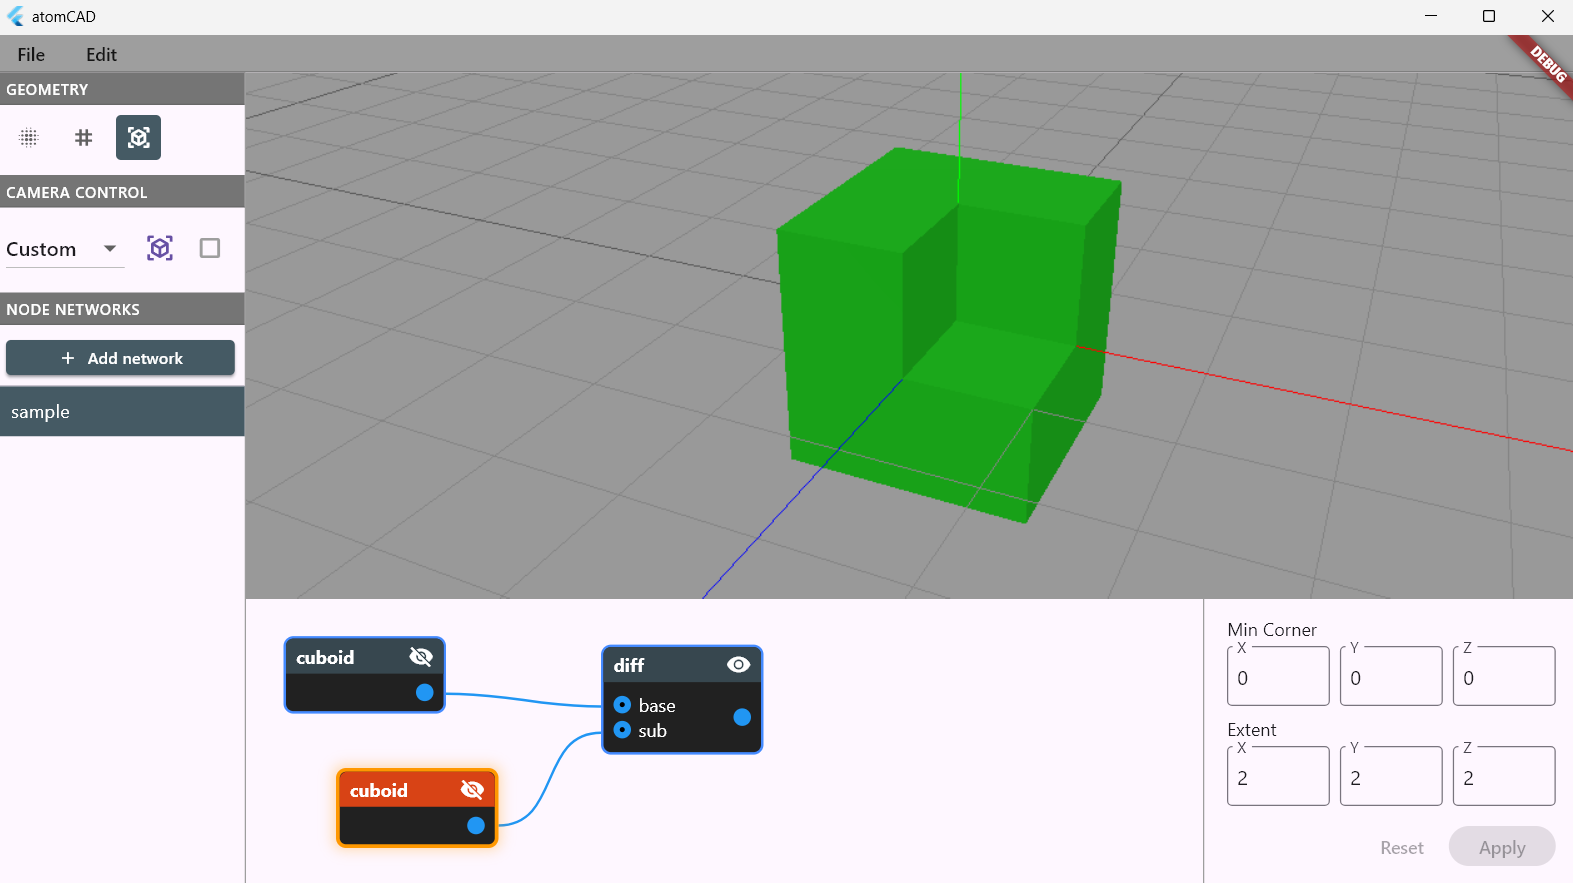
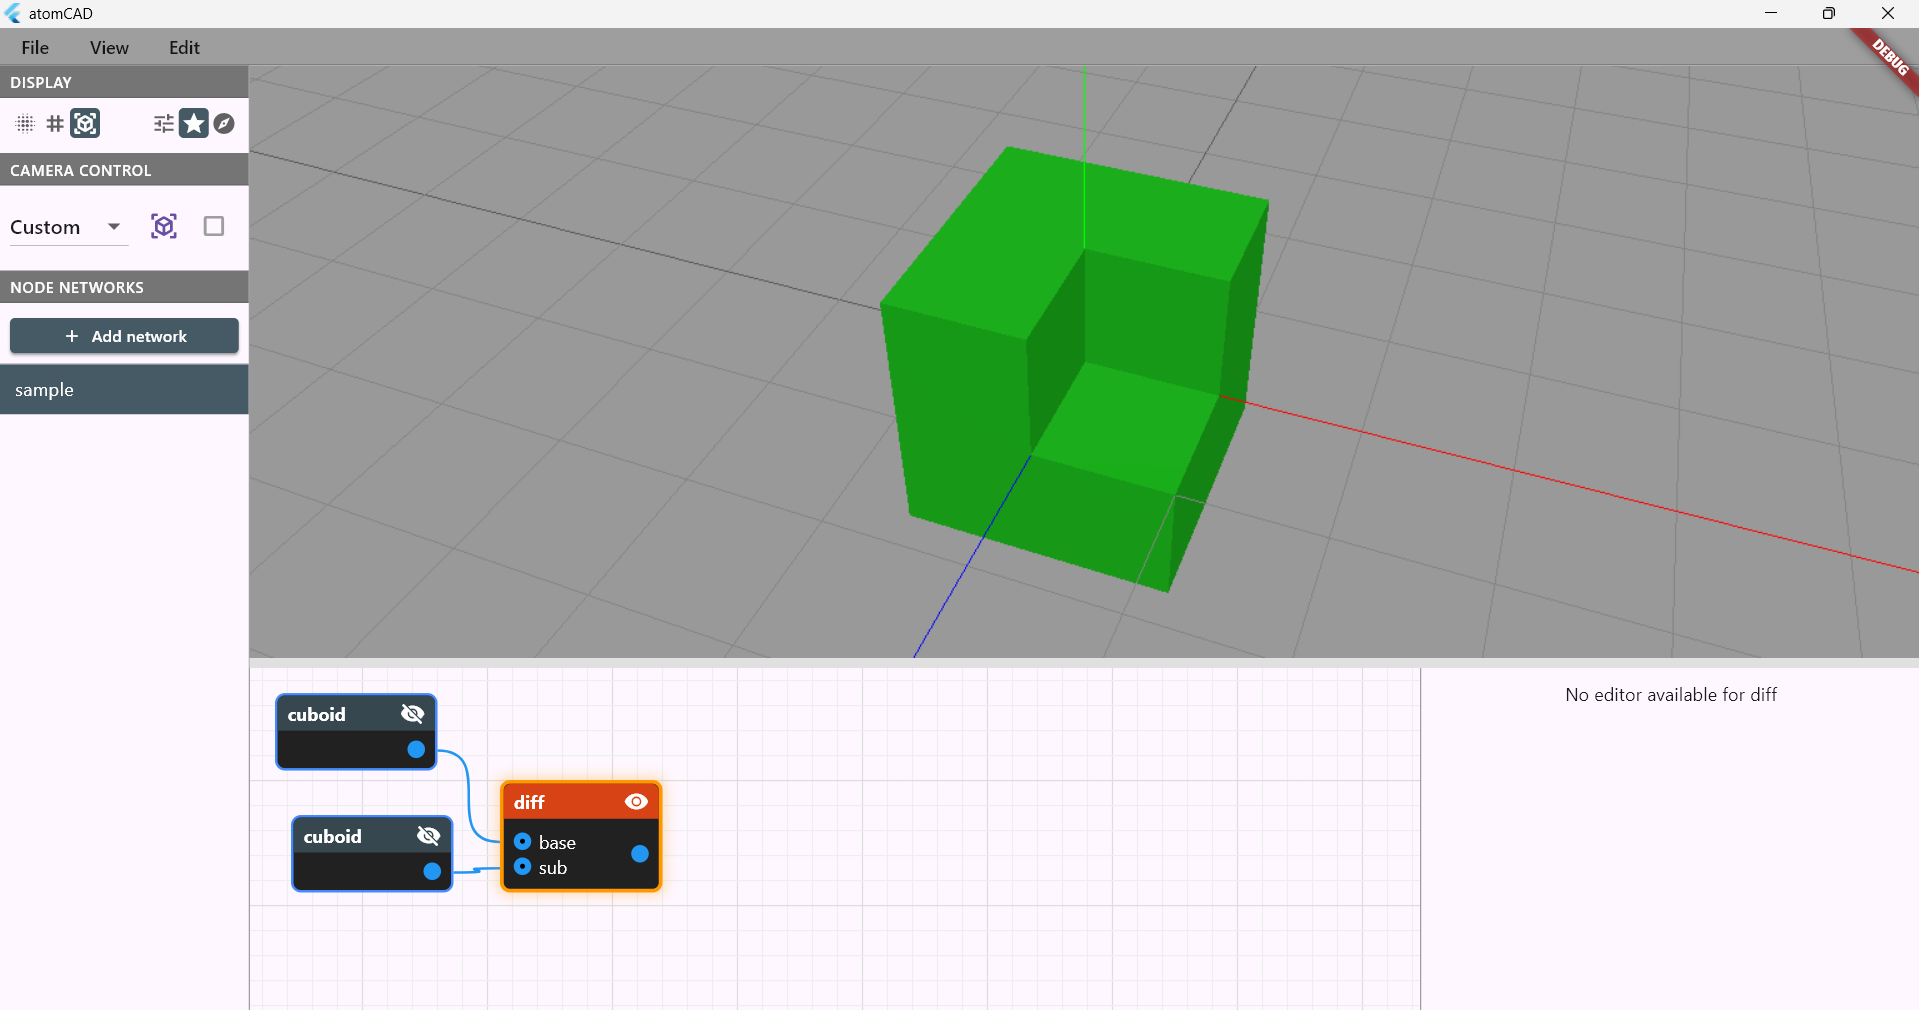
progressing with structure designer user guide, display camera target

diff --git a/lib/src/rust/frb_generated.dart b/lib/src/rust/frb_generated.dart
@@ -4241,14 +4241,15 @@ class RustLibApiImpl extends RustLibApiImplPlatform implements RustLibApi {
       dco_decode_geometry_visualization_preferences(dynamic raw) {
     // Codec=Dco (DartCObject based), see doc to use other codecs
     final arr = raw as List<dynamic>;
-    if (arr.length != 5)
-      throw Exception('unexpected arr length: expect 5 but see ${arr.length}');
+    if (arr.length != 6)
+      throw Exception('unexpected arr length: expect 6 but see ${arr.length}');
     return GeometryVisualizationPreferences(
       geometryVisualization: dco_decode_geometry_visualization(arr[0]),
       wireframeGeometry: dco_decode_bool(arr[1]),
       samplesPerUnitCell: dco_decode_i_32(arr[2]),
       sharpnessAngleThresholdDegree: dco_decode_f_64(arr[3]),
       meshSmoothing: dco_decode_mesh_smoothing(arr[4]),
+      displayCameraTarget: dco_decode_bool(arr[5]),
     );
   }
 
@@ -5265,12 +5266,14 @@ class RustLibApiImpl extends RustLibApiImplPlatform implements RustLibApi {
     var var_samplesPerUnitCell = sse_decode_i_32(deserializer);
     var var_sharpnessAngleThresholdDegree = sse_decode_f_64(deserializer);
     var var_meshSmoothing = sse_decode_mesh_smoothing(deserializer);
+    var var_displayCameraTarget = sse_decode_bool(deserializer);
     return GeometryVisualizationPreferences(
         geometryVisualization: var_geometryVisualization,
         wireframeGeometry: var_wireframeGeometry,
         samplesPerUnitCell: var_samplesPerUnitCell,
         sharpnessAngleThresholdDegree: var_sharpnessAngleThresholdDegree,
-        meshSmoothing: var_meshSmoothing);
+        meshSmoothing: var_meshSmoothing,
+        displayCameraTarget: var_displayCameraTarget);
   }
 
   @protected
@@ -6418,6 +6421,7 @@ class RustLibApiImpl extends RustLibApiImplPlatform implements RustLibApi {
     sse_encode_i_32(self.samplesPerUnitCell, serializer);
     sse_encode_f_64(self.sharpnessAngleThresholdDegree, serializer);
     sse_encode_mesh_smoothing(self.meshSmoothing, serializer);
+    sse_encode_bool(self.displayCameraTarget, serializer);
   }
 
   @protected

diff --git a/lib/src/rust/api/structure_designer/structure_designer_preferences.dart b/lib/src/rust/api/structure_designer/structure_designer_preferences.dart
@@ -21,6 +21,7 @@ class GeometryVisualizationPreferences {
   int samplesPerUnitCell;
   double sharpnessAngleThresholdDegree;
   MeshSmoothing meshSmoothing;
+  bool displayCameraTarget;
 
   GeometryVisualizationPreferences({
     required this.geometryVisualization,
@@ -28,6 +29,7 @@ class GeometryVisualizationPreferences {
     required this.samplesPerUnitCell,
     required this.sharpnessAngleThresholdDegree,
     required this.meshSmoothing,
+    required this.displayCameraTarget,
   });
 
   @override
@@ -36,7 +38,8 @@ class GeometryVisualizationPreferences {
       wireframeGeometry.hashCode ^
       samplesPerUnitCell.hashCode ^
       sharpnessAngleThresholdDegree.hashCode ^
-      meshSmoothing.hashCode;
+      meshSmoothing.hashCode ^
+      displayCameraTarget.hashCode;
 
   @override
   bool operator ==(Object other) =>
@@ -48,7 +51,8 @@ class GeometryVisualizationPreferences {
           samplesPerUnitCell == other.samplesPerUnitCell &&
           sharpnessAngleThresholdDegree ==
               other.sharpnessAngleThresholdDegree &&
-          meshSmoothing == other.meshSmoothing;
+          meshSmoothing == other.meshSmoothing &&
+          displayCameraTarget == other.displayCameraTarget;
 }
 
 /// Enum to control mesh smoothing behavior during tessellation

diff --git a/rust/src/frb_generated.rs b/rust/src/frb_generated.rs
@@ -4299,7 +4299,8 @@ let mut var_wireframeGeometry = <bool>::sse_decode(deserializer);
 let mut var_samplesPerUnitCell = <i32>::sse_decode(deserializer);
 let mut var_sharpnessAngleThresholdDegree = <f64>::sse_decode(deserializer);
 let mut var_meshSmoothing = <crate::api::structure_designer::structure_designer_preferences::MeshSmoothing>::sse_decode(deserializer);
-return crate::api::structure_designer::structure_designer_preferences::GeometryVisualizationPreferences{geometry_visualization: var_geometryVisualization, wireframe_geometry: var_wireframeGeometry, samples_per_unit_cell: var_samplesPerUnitCell, sharpness_angle_threshold_degree: var_sharpnessAngleThresholdDegree, mesh_smoothing: var_meshSmoothing};}
+let mut var_displayCameraTarget = <bool>::sse_decode(deserializer);
+return crate::api::structure_designer::structure_designer_preferences::GeometryVisualizationPreferences{geometry_visualization: var_geometryVisualization, wireframe_geometry: var_wireframeGeometry, samples_per_unit_cell: var_samplesPerUnitCell, sharpness_angle_threshold_degree: var_sharpnessAngleThresholdDegree, mesh_smoothing: var_meshSmoothing, display_camera_target: var_displayCameraTarget};}
                 }
 
 impl SseDecode for i32 {
@@ -6009,7 +6010,8 @@ impl flutter_rust_bridge::IntoDart for crate::api::structure_designer::structure
 self.wireframe_geometry.into_into_dart().into_dart(),
 self.samples_per_unit_cell.into_into_dart().into_dart(),
 self.sharpness_angle_threshold_degree.into_into_dart().into_dart(),
-self.mesh_smoothing.into_into_dart().into_dart()
+self.mesh_smoothing.into_into_dart().into_dart(),
+self.display_camera_target.into_into_dart().into_dart()
                 ].into_dart()
                 }
             }
@@ -6665,7 +6667,8 @@ impl SseEncode for crate::api::structure_designer::structure_designer_preference
 <bool>::sse_encode(self.wireframe_geometry, serializer);
 <i32>::sse_encode(self.samples_per_unit_cell, serializer);
 <f64>::sse_encode(self.sharpness_angle_threshold_degree, serializer);
-<crate::api::structure_designer::structure_designer_preferences::MeshSmoothing>::sse_encode(self.mesh_smoothing, serializer);}
+<crate::api::structure_designer::structure_designer_preferences::MeshSmoothing>::sse_encode(self.mesh_smoothing, serializer);
+<bool>::sse_encode(self.display_camera_target, serializer);}
                 }
 
 impl SseEncode for i32 {

diff --git a/rust/src/renderer/renderer.rs b/rust/src/renderer/renderer.rs
@@ -9,6 +9,7 @@ use crate::renderer::line_mesh::LineVertex;
 use crate::renderer::line_mesh::LineMesh;
 use super::tessellator::atomic_tessellator;
 use super::tessellator::surface_point_tessellator;
+use super::tessellator::tessellator::tessellate_sphere;
 use super::camera::Camera;
 use glam::f32::Vec3;
 use glam::f32::Mat4;
@@ -465,6 +466,23 @@ impl Renderer {
         let mut lightweight_mesh = Mesh::new();
         if let Some(tessellatable) = scene.tessellatable() {
             tessellatable.tessellate(&mut lightweight_mesh);
+        }
+        
+        // Tessellate camera target sphere if enabled
+        if geometry_visualization_preferences.display_camera_target {
+            let red_material = Material::new(
+                &Vec3::new(1.0, 0.0, 0.0), // Red color
+                0.5, // roughness
+                0.0, // metallic
+            );
+            tessellate_sphere(
+                &mut lightweight_mesh,
+                &self.camera.target,
+                0.2, // Small radius for visibility
+                8,   // horizontal_divisions
+                8,   // vertical_divisions
+                &red_material,
+            );
         }
         
         //println!("lightweight tessellated {} vertices and {} indices", 

diff --git a/rust/src/api/common_api.rs b/rust/src/api/common_api.rs
@@ -382,7 +382,8 @@ pub fn adjust_camera_target(ray_origin: APIVec3, ray_direction: APIVec3) {
         
         // Update the camera buffer
         cad_instance.renderer.update_camera_buffer();
-        
+
+        refresh_renderer(cad_instance, true);    
         return;
       } else {
         // Fallback: Check if both the camera forward vector and input ray hit the XZ plane
@@ -412,6 +413,7 @@ pub fn adjust_camera_target(ray_origin: APIVec3, ray_direction: APIVec3) {
           // Update the camera buffer
           cad_instance.renderer.update_camera_buffer();
           
+          refresh_renderer(cad_instance, true);
           return;
         }
       }

diff --git a/rust/src/api/structure_designer/structure_designer_preferences.rs b/rust/src/api/structure_designer/structure_designer_preferences.rs
@@ -34,6 +34,8 @@ pub struct GeometryVisualizationPreferences {
   pub sharpness_angle_threshold_degree: f64,
   #[frb(non_final)]
   pub mesh_smoothing: MeshSmoothing,
+  #[frb(non_final)]
+  pub display_camera_target: bool,
 }
 
 #[frb]
@@ -68,6 +70,7 @@ impl StructureDesignerPreferences {
         samples_per_unit_cell: 4,
         sharpness_angle_threshold_degree: 29.0,
         mesh_smoothing: MeshSmoothing::SmoothingGroupBased,
+        display_camera_target: true,
       },
       node_display_preferences: NodeDisplayPreferences {
         display_policy: NodeDisplayPolicy::PreferSelected,

diff --git a/doc/structure_designer_users_guide.md b/doc/structure_designer_users_guide.md
@@ -3,13 +3,13 @@
 ## Introduction
 
 The Structure Designer is a tool for creating diamond crystal structures with defects.
-It support non-destructive editing through the use of a node network.
+It supports non-destructive editing through the use of a node network.
 
 ## Notations in this document
 
 Instead of the usual TODO notation we use TODOC and TODEV notation in this document:
 
-- TODEV: means that the feature mentioned needs to be developd and documented
+- TODEV: means that the feature mentioned needs to be developed and documented
 - TODOC: means that something needs to be documented but is already developed in atomCAD
 
 ## Basic Tutorial
@@ -25,48 +25,46 @@ This is how the full window looks like:
 
 ---
 
-- Menu Bar: for loading and saving a design and for opening the preferences panel:
-![](./structure_designer_images/menu_bar.png)
+We will discuss the different parts of the UI in detail. The parts are:
 
----
-
-- 3D Viewport: you can see the node network results here. You can rotate, zoom and pan the camera in the viewport:
-![](./structure_designer_images/3d_viewport.png)
-
----
-
-- Node Network Editor Panel: you can edit the active node network here:
-![](./structure_designer_images/node_network_editor_panel.png)
-
----
-
-- Node Properties Panel: you can edit the properties of the active node here:
-![](./structure_designer_images/cuboid_properties_panel.png)
-
----
-
-- Node Networks List Panel: you can select the active node network here:
-![](./structure_designer_images/node_networks_list_panel.png)
-
----
-
-- Geometry Visualization Preferences Panel: common settings for geometry visualization:
-![](./structure_designer_images/geometry_visualization_preferences_panel.png)
-
----
-
-- Camera Control Panel: common settings for the camera:
-![](./structure_designer_images/camera_control_panel.png)
-
----
+- 3D Viewport
+- Node Networks List Panel
+- Node Network Editor Panel
+- Node Properties Panel
+- Geometry Visualization Preferences Panel
+- Camera Control Panel
 
 ## 3D Viewport
 
-You can navigate in the viewport the following way:
+The node network results are displayed here.
+
+![](./structure_designer_images/3d_viewport.png)
+
+The viewport can be navigated with the mouse the following way:
 
 - Move: drag with middle mouse button
 - Rotate: drag with right mouse button
 - Zoom: use mouse scroll wheel
+
+Here is the exact camera control algorithm:
+
+We maintain a point in space which we call the **camera target point**. This point is always a the center of the viewport (determines where the camera looks) but also has a (varying) depth.
+
+Anytime the user start rotating, moving or zooming the camera target is always adjusted based on the mouse position.
+To avoid sudden camera rotation when we adjust the camera target we always keep it on the camera forward axis, we just adjust its depth. This is done by tracing a ray from the camera eye through the mouse position and see where it intersects geoemtry or atomic structure. This intersection point is then projected on the camera forward axis and this is the new camera target point.
+This way if the user focuses on content far away the camera target will also be far away, while if the user is focusing on
+content close to the camera the camera target will be close to the camera too.
+
+When rotating the camera will rotate around the camera target point in a restricted way so that the camera is never tilted. What happens that horizontal mouse movement controls a yaw around the vertical exis going through the camera target points, and the vertical mouse movement controls a pitch around a horizontal axis going through the camera target point. Roll is not allowed.
+
+When panning the camera panning speed will be determined by the camera target depth: the closer the camera target is to the camera the slower the panning speed will be.
+
+When zooming the camera zoom speed will be determined by the camera target depth: the closer the camera target is to the camera the slower the zoom speed will be so that the user can zoom on the focused content.
+
+What happens when the ray trace do not hit any content? In this case we try to rely on the XZ plane. Currently we hit a ray from the eye both through the mouse position and both in the camera forward direction and if both hit the XZ plane we take the intersection through the camera forward direction as the camera target point.
+
+TODEV: option to be able to see the camera target point.
+TODEV: The XZ plane handling probably needs to be revised.
 
 ## Node network composability and Node networks list panel
 
@@ -75,26 +73,31 @@ You can create a custom node by creating a node network with the same name which
 Node networks are composable this way like functions in a programming language. When you use node B in node network A then node network B acts as a subnetwork of node network A.
 As nodes can have parameters and outputs you will see how these can be set-up in a subnetwork later in thi document.
 
-A structure design consist of node networks. The list of these node networks is displayed in the Node networks list panel. You can select one to edit in the node network editor panel. You can create a new node network in your design by clicking on the ''
+A structure design consist of node networks. The list of these node networks is displayed in the Node networks list panel. You can select one to edit in the node network editor panel. You can create a new node network in your design by clicking on the 'Add network' button.
+
+![](./structure_designer_images/node_networks_list_panel.png)
 
 ## Node network editor panel
 
-A new node can be added to the network by clickingthe mouse right button: it will open the Add Node Menu.
-You can drag nodes around using mouse left-click and drag. You can connect pins of nodes by left-click dragging a pin to another pin.
-Currently you can select one node or wire by lef-clicking it. Selecting a node or wire has the following uses:
+![](./structure_designer_images/node_network_editor_panel.png)
 
-- You can delete the selected node or wire by pressing the del key on the keyboard
-- You can edit the properties of the selected node in the node properties panel
+A new node can be added to the network by clicking the right mouse button: it will open the Add Node Menu.
+Nodes can be dragged around using mouse left-click and drag. You can connect pins of nodes by left-click dragging a pin to another pin.
+Currently one node or wire can be selected by lef-clicking it. Selecting a node or wire has the following uses:
+
+- The selected node or wire can be deleted by pressing the del key on the keyboard
+- The properties of the selected node can be edited in the node properties panel
 - When a node is selected you may be able to interact with the model in the viewport: what kind of interations these are depend on the node type and we will discuss them in the nodes reference section. Most of the time this involves one or more interactive *gadgets* appearing in the viewport.
 
 Selecting a node is not the same as making its output visible in the viewport.
-Node visibility is controlled by toggling the eye icon on the upper right corner of the node.
+Node visibility is controlled by toggling the eye icon on the upper right corner of the node. There are also node display policies in the geometry visualization preferences panel which influence whether the visibility of some nodes are automatically changed on selection change. (See: Geometry Visualization Preferences Panel)
 
 TODEV: being able to select and drag multiple nodes should be possible.
 
-TODEV: selection and visibility can be orthogonally controlled, which is powerful but we need a convenient mode too in which selection and visibility are linked and is more intuitive most of the time.
+The node network canvas can be panned by dragging the middle mouse button.
+If you get lost you can use the 'View/Reset node network view' menu item.
 
-## Input and output pin color codes
+### Input and output pin color codes
 
 The color of a pin represents its data type. A wire can go only from an output pin to an input pin and they must have the same color. The following colors are used:
 
@@ -104,17 +107,63 @@ The color of a pin represents its data type. A wire can go only from an output p
 
 You create 2D geometry to eventually use the *extrude* node to create 3D geometry from it. You create 3D geometry to eventually use the *geo_to_atom* node to create an atomic structure from it.
 
+## Node Properties Panel
+
+The properties of the active node can be edited here.
+
+![](./structure_designer_images/cuboid_properties_panel.png)
+
+This is different for each node, we will discuss this in depth at the specific nodes. There are some general features though:
+
+- When dragging the mouse on integer number editor fields the number can be
+incremented or decremented using the moue wheel. Shift + mouse wheel works in 10 increments.
+
+## Geometry Visualization Preferences Panel
+
+There are common settings for geometry visualization here.
+
+![](./structure_designer_images/geometry_visualization_preferences_panel.png)
+
+At the left of the panel the **visualization mode** of geometry nodes can be selected. The possible options are:
+
+- Surface Splatting: Little discs are regularly placed on the surface of the geometry. Internally uses the implicit evaluation of the node network geoemtry to determine where the surfaces are. (For example a sphere is actually a sphere in this representation.)
+- Wireframe (Explicit mesh): The geometry is rendered as a wireframe. Internally uses polygon meshes to evaluate the node network: we call this explicit evaluation. In this case for example a sphere is approximated by a polygon mesh.
+- Solid (Explicit Mesh): The geometry is rendered as a solid. Internally uses the explicit evaluation of the node network geoemtry. This is the default visualization mode.
+
+Both in case of 'surface splatting' and 'solid' visualization modes the outer surface of a geometry is rendered green and the inner surface is rendered red.
+
+At the right side the **node display policy** can be selected. These are the following:
+
+- Manual (User Selection) In this case whether the output of a node is visible or not should be set manually by the user and it has nothing to do with which node is selected.
+- Prefer Selected Nodes. This is the default policy. In this case in each connected node island if the selected node is in that island the selected node is vmade isible, if there is no selected node in that island the frontier nodes are visible.
+- Prefer Frontier Nodes. In this case the frontier nodes are visible. Frontier nodes are the ones whose output is not connected to any input, so these can be thought of the current 'results' of the network.
+
+Even in non Manual modes you can use the eye icon to toggle the visibility of a node, and this will stay intact until you change the current selection.
+
+## Camera Control Panel
+
+Contains common settings for the camera.
+
+![](./structure_designer_images/camera_control_panel.png)
+
+## Menu Bar
+
+For loading and saving a design and for opening the preferences panel:
+
+![](./structure_designer_images/menu_bar.png)
+
+
 ## Nodes reference
 
 ### 2D Geometry editing nodes
 
-TOWRITE
+TODOC
 
 ### 3D Geometry editing nodes
 
-TOWRITE
+TODOC
 
 ### Atomic structure related nodes
 
-TOWRITE
+TODOC
 
